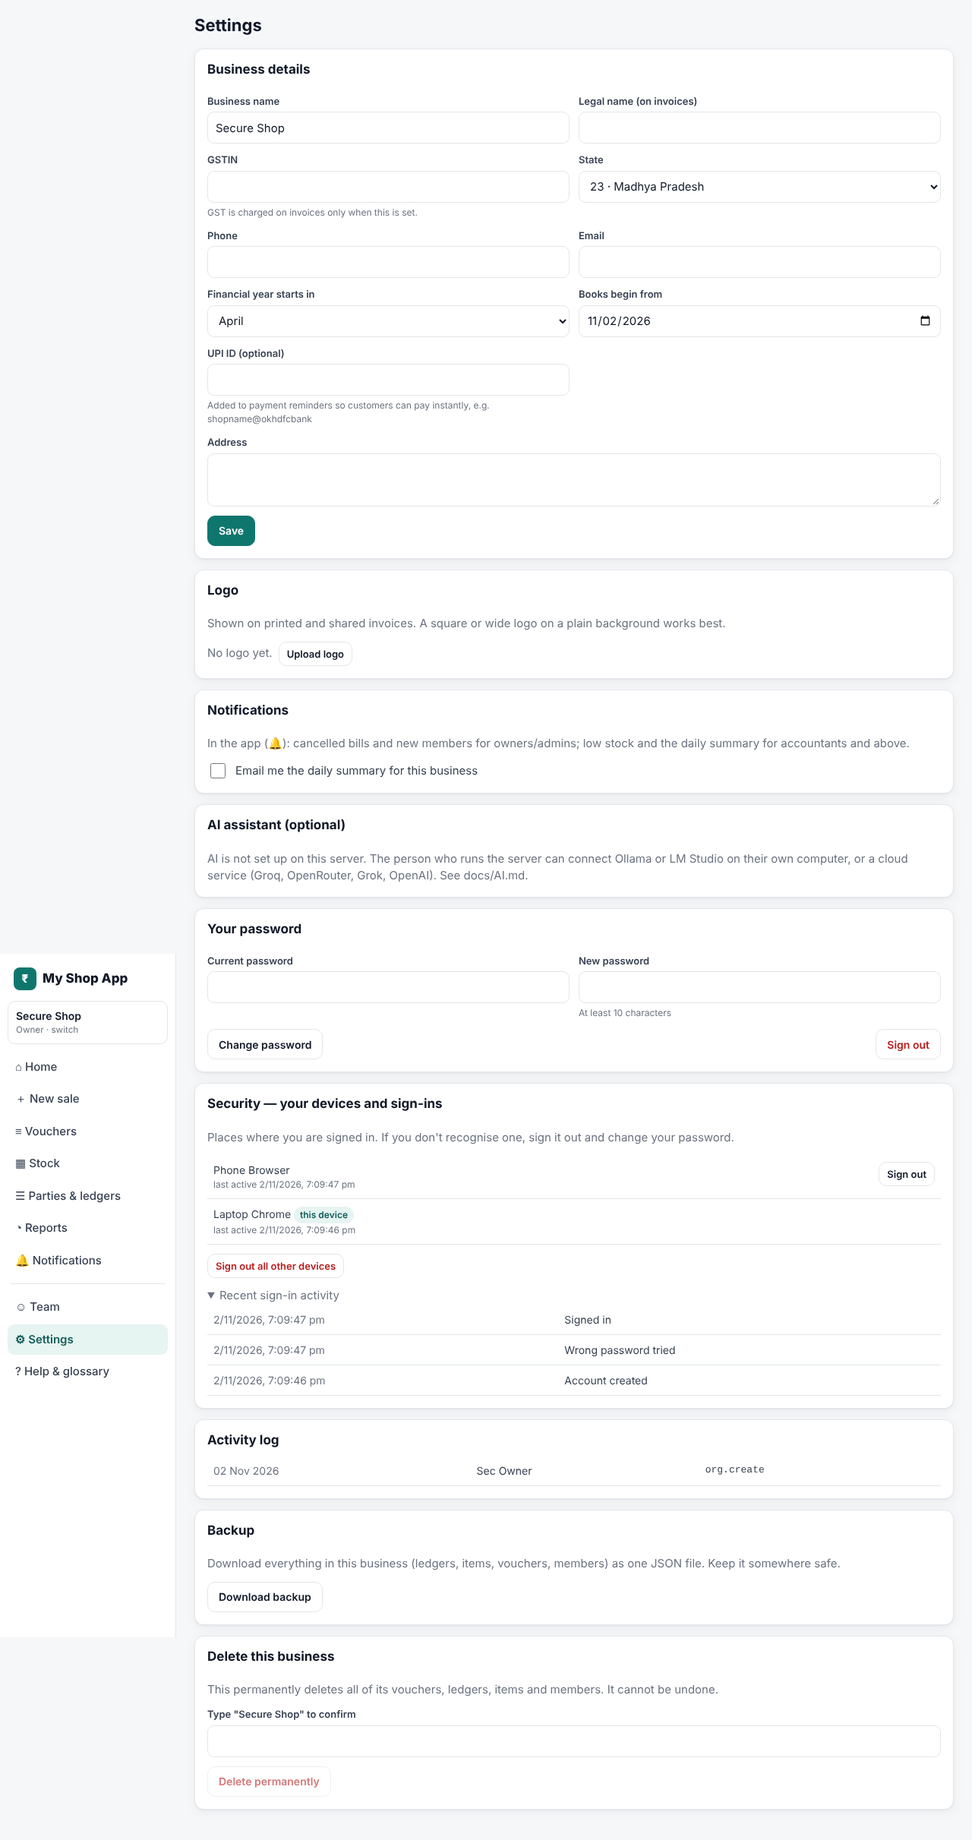
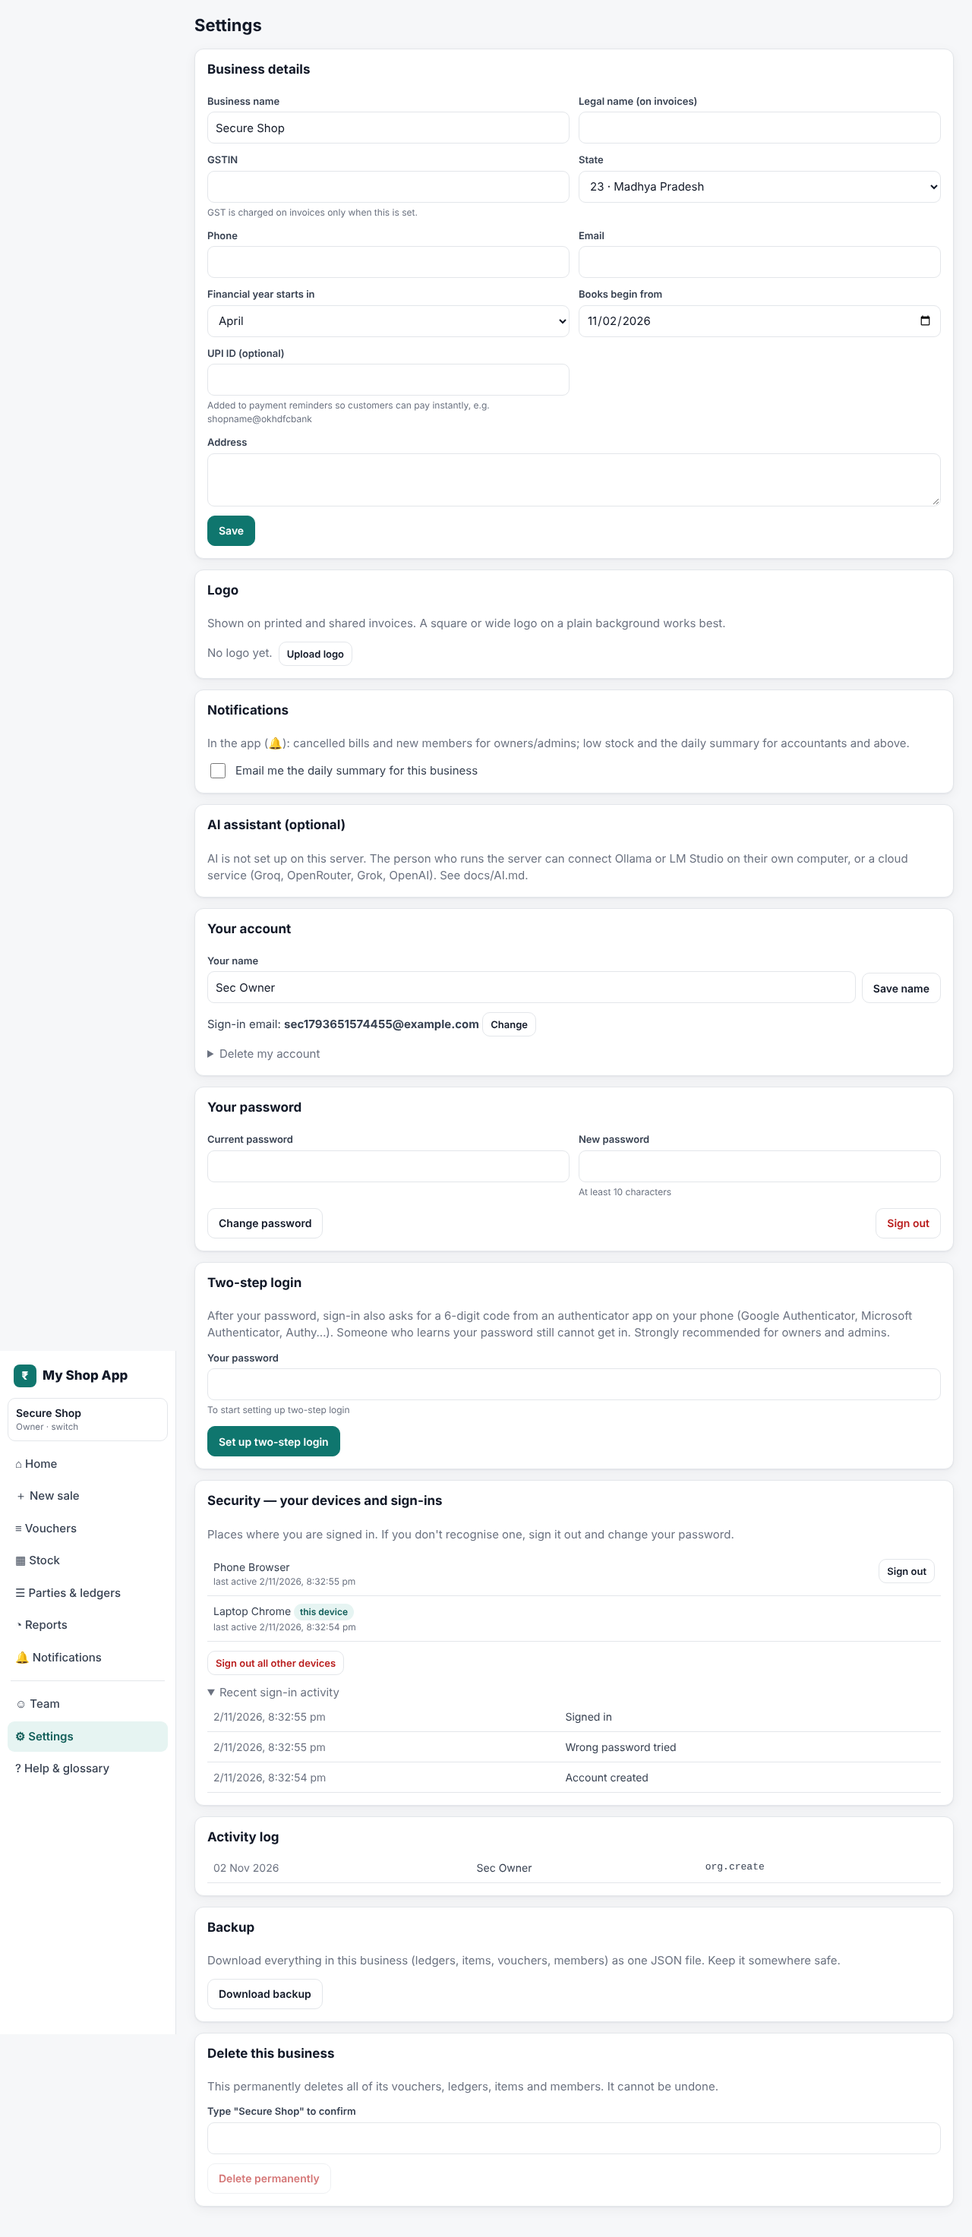
GST e-invoice JSON export (schema 1.1) per bill and per period
- lib/services/eInvoice.js builds the Invoice Registration Portal JSON for B2B
  sales (INV) and credit notes (CRN): seller/buyer details, PIN and location
  from addresses, UQC unit codes, per-line and total values that match the books
- problems listed instead of producing a file the portal would refuse (missing
  HSN, PIN, GSTIN, cancelled); B2C bills are explained, not exported
- GET /orgs/{org}/e-invoice (?voucherId or ?from&to, &download=1), accountant+
- web: 'E-invoice JSON' on a bill; GST Summary shows a bulk download and the
  bills that need fixing
- IRN and signed QR still come from the portal (needs the business's GSP login)
Tests: 106 (105 pass, 1 skipped without Kafka). Build, smoke, probes 13/13 and
51/51, ui and security walkthroughs pass.

Claude-Session: https://claude.ai/code/session_01KakstmcvHY21AvYy6WNJfV

diff --git a/lib/services/eInvoice.js b/lib/services/eInvoice.js
@@ -1,0 +1,93 @@
+// GST e-invoice JSON (government schema version 1.1, as uploaded to the Invoice Registration Portal).
+// We PREPARE the file; getting the IRN and signed QR code needs the business's own IRP/GSP login, so the
+// shop (or its accountant) uploads this JSON on the portal, or a GSP integration can send it later.
+// Only B2B documents qualify: the seller and the buyer both have a GSTIN. Sales -> INV, Credit Note -> CRN.
+import { withOrg } from '../db.js';
+import { decryptField as dec } from '../crypto.js';
+import { getVoucher } from './vouchers.js';
+import { badRequest } from '../errors.js';
+
+// Unit Quantity Codes the portal accepts for our built-in units; anything else is OTH (others).
+const UQC = { pcs: 'NOS', nos: 'NOS', kg: 'KGS', g: 'GMS', gm: 'GMS', l: 'LTR', ltr: 'LTR', ml: 'MLT', m: 'MTR', box: 'BOX', pkt: 'PAC',
+  pack: 'PAC', dozen: 'DOZ', doz: 'DOZ', bag: 'BAG', btl: 'BTL', bottle: 'BTL', set: 'SET', pair: 'PRS', roll: 'ROL', tonne: 'TON', qtl: 'QTL' };
+const r2 = (x) => Math.round(Number(x) * 100) / 100;
+const ddmmyyyy = (d) => { const s = String(d instanceof Date ? d.toISOString() : d).slice(0, 10); return `${s.slice(8, 10)}/${s.slice(5, 7)}/${s.slice(0, 4)}`; };
+const pinOf = (addr) => (String(addr || '').match(/\b([1-9][0-9]{5})\b/) || [])[1] ?? null;
+/** Short, single-line text as the schema wants (no line breaks; length limits). */
+const line = (s, max) => String(s ?? '').replace(/\s+/g, ' ').trim().slice(0, max);
+const locOf = (addr) => {
+  const parts = String(addr || '').split(/[,\n]/).map((p) => p.replace(/\b[1-9][0-9]{5}\b/, '').trim()).filter(Boolean);
+  return parts.length ? parts[parts.length - 1] : '';
+};
+
+/**
+ * Pure builder. Returns { json, problems }: problems are the reasons the portal would refuse the file
+ * (shown to the user to fix, e.g. a missing HSN code or PIN code). json is null when not a B2B document.
+ */
+export function buildEInvoice(org, party, v) {
+  const problems = [];
+  const typ = v.type === 'sales' ? 'INV' : v.type === 'credit_note' ? 'CRN' : null;
+  if (!typ) return { json: null, problems: ['Only sales bills and credit notes are e-invoices.'] };
+  if (v.status !== 'posted') problems.push('This bill is cancelled; cancelled bills are not reported.');
+  if (!org.gstin) problems.push('Your business has no GSTIN (Settings).');
+  if (!party?.gstin) return { json: null, problems: ['The customer has no GSTIN, so this is a B2C bill: no e-invoice is needed.'] };
+  const sellerPin = pinOf(org.address); const buyerPin = pinOf(party.address);
+  if (!sellerPin) problems.push('Add a 6-digit PIN code to your business address (Settings).');
+  if (!buyerPin) problems.push(`Add a 6-digit PIN code to ${party.name}'s address.`);
+  const items = v.items.map((i, k) => {
+    if (!/^[0-9]{4,8}$/.test(i.hsnCode || '')) problems.push(`Line ${k + 1} (${i.name}): add an HSN code (4–8 digits) to the item.`);
+    const tot = r2(i.qty * i.rate);
+    return {
+      SlNo: String(k + 1), PrdDesc: line(i.description || i.name, 300), IsServc: 'N', HsnCd: i.hsnCode || '',
+      Qty: Number(i.qty), Unit: UQC[String(i.unit).toLowerCase()] ?? 'OTH', UnitPrice: r2(i.rate), TotAmt: tot, Discount: r2(i.discount),
+      AssAmt: r2(i.taxableValue), GstRt: Number(i.gstRate), IgstAmt: r2(i.igst), CgstAmt: r2(i.cgst), SgstAmt: r2(i.sgst),
+      TotItemVal: r2(i.taxableValue + i.igst + i.cgst + i.sgst),
+    };
+  });
+  const sum = (k) => r2(items.reduce((a, i) => a + i[k], 0));
+  const json = {
+    Version: '1.1',
+    TranDtls: { TaxSch: 'GST', SupTyp: 'B2B', RegRev: 'N', IgstOnIntra: 'N' },
+    DocDtls: { Typ: typ, No: line(v.label, 16), Dt: ddmmyyyy(v.date) },
+    SellerDtls: { Gstin: org.gstin, LglNm: line(org.legalName || org.name, 100), TrdNm: line(org.name, 100),
+      Addr1: line(org.address || '', 100) || '-', Loc: line(locOf(org.address), 50) || '-', Pin: Number(sellerPin) || 0, Stcd: org.gstin?.slice(0, 2) ?? '' },
+    BuyerDtls: { Gstin: party.gstin, LglNm: line(party.name, 100), Pos: v.placeOfSupply || party.gstin.slice(0, 2),
+      Addr1: line(party.address || '', 100) || '-', Loc: line(locOf(party.address), 50) || '-', Pin: Number(buyerPin) || 0, Stcd: party.gstin.slice(0, 2) },
+    ItemList: items,
+    ValDtls: { AssVal: sum('AssAmt'), CgstVal: sum('CgstAmt'), SgstVal: sum('SgstAmt'), IgstVal: sum('IgstAmt'),
+      RndOffAmt: r2(v.roundOff), TotInvVal: r2(v.total) },
+  };
+  if (v.label.length > 16) problems.push('Document number is longer than 16 characters.');
+  return { json, problems };
+}
+
+async function context(c, db) {
+  const o = (await c.query('select name, legal_name, gstin, address from organizations where id = $1', [db.orgId])).rows[0];
+  return { name: o.name, legalName: o.legal_name, gstin: o.gstin, address: dec(o.address) };
+}
+async function partyOf(c, id) {
+  if (!id) return null;
+  const p = (await c.query('select name, gstin, address from ledgers where id = $1', [id])).rows[0];
+  return p ? { name: p.name, gstin: p.gstin, address: dec(p.address) } : null;
+}
+
+export async function eInvoiceForVoucher(db, voucherId) {
+  const v = await getVoucher(db, voucherId);
+  return withOrg(db, async (c) => ({ voucher: v.label, ...buildEInvoice(await context(c, db), await partyOf(c, v.partyLedgerId), v) }));
+}
+
+/** All B2B sales bills and credit notes in a period: ready files plus the ones that need fixing first. */
+export async function eInvoicesForPeriod(db, { from, to }) {
+  if (!from || !to || from > to) throw badRequest('Choose a period (from and to dates).');
+  const ids = await withOrg(db, async (c) => (await c.query(
+    `select v.id from vouchers v join ledgers l on l.id = v.party_ledger_id
+      where v.type in ('sales','credit_note') and v.status = 'posted' and l.gstin is not null and l.gstin <> ''
+        and v.date between $1 and $2 order by v.date, v.number limit 1000`, [from, to])).rows.map((r) => r.id));
+  const ready = []; const needsFix = [];
+  for (const id of ids) {
+    const r = await eInvoiceForVoucher(db, id);
+    if (r.problems.length) needsFix.push({ voucher: r.voucher, voucherId: id, problems: r.problems });
+    else ready.push(r.json);
+  }
+  return { from, to, ready, needsFix };
+}

diff --git a/test/eInvoice.test.js b/test/eInvoice.test.js
@@ -1,0 +1,54 @@
+// GST e-invoice JSON (schema 1.1): B2B only, totals match the books, problems listed instead of bad files.
+import test, { before, after } from 'node:test';
+import assert from 'node:assert/strict';
+import { setupDb, makeUserOrg, closePool } from './helpers.js';
+
+before(setupDb);
+after(closePool);
+
+test('e-invoice JSON for a B2B bill matches the voucher; B2C and missing data are explained', async () => {
+  const m = await import('../lib/services/masters.js');
+  const O = await import('../lib/services/orgs.js');
+  const { createVoucher } = await import('../lib/services/vouchers.js');
+  const E = await import('../lib/services/eInvoice.js');
+  const { db } = await makeUserOrg({ legalName: 'Bansal Traders Pvt Ltd' });
+  const groups = await m.listGroups(db); const g = (c) => groups.find((x) => x.code === c).id;
+  const units = await m.listUnits(db); const pcs = units.find((u) => u.symbol === 'pcs').id;
+  const b2b = await m.createLedger(db, { name: 'Delhi Mart', groupId: g('sundry_debtors'), openingBalance: 0, gstin: '07AAACR5055K1Z5', stateCode: '07',
+    phone: '', email: '', address: 'Shop 4, Karol Bagh, New Delhi 110005', isActive: true });
+  const rice = await m.createItem(db, { name: 'Basmati Rice 5kg', sku: '', unitId: pcs, hsnCode: '1006', gstRate: 5, salePrice: 500, purchasePrice: 400,
+    reorderLevel: 0, openingQty: 50, openingRate: 400, isActive: true });
+  const soap = await m.createItem(db, { name: 'Soap', sku: '', unitId: pcs, hsnCode: '', gstRate: 18, salePrice: 30, purchasePrice: 20,
+    reorderLevel: 0, openingQty: 50, openingRate: 20, isActive: true });
+  const base = { reference: '', narration: '', roundOff: true, entries: [], date: '2026-05-10' };
+
+  const v = await createVoucher(db, { ...base, type: 'sales', partyLedgerId: b2b.id, items: [{ stockItemId: rice.id, qty: 3, rate: '500', discount: '50' }] });
+  let r = await E.eInvoiceForVoucher(db, v.id);
+  assert.ok(r.problems.some((p) => /PIN code to your business/.test(p)), 'seller PIN missing is reported');
+  await O.updateOrg(db, { address: '12 Sarafa Bazaar, Gwalior 474001' });
+  r = await E.eInvoiceForVoucher(db, v.id);
+  assert.deepEqual(r.problems, []);
+  const j = r.json;
+  assert.equal(j.Version, '1.1');
+  assert.deepEqual(j.TranDtls, { TaxSch: 'GST', SupTyp: 'B2B', RegRev: 'N', IgstOnIntra: 'N' });
+  assert.equal(j.DocDtls.Typ, 'INV'); assert.equal(j.DocDtls.No, 'INV/26-27/1'); assert.equal(j.DocDtls.Dt, '10/05/2026');
+  assert.equal(j.SellerDtls.Gstin, '23ABCDE1234F1Z8'); assert.equal(j.SellerDtls.LglNm, 'Bansal Traders Pvt Ltd');
+  assert.equal(j.SellerDtls.Pin, 474001); assert.equal(j.SellerDtls.Loc, 'Gwalior'); assert.equal(j.SellerDtls.Stcd, '23');
+  assert.equal(j.BuyerDtls.Gstin, '07AAACR5055K1Z5'); assert.equal(j.BuyerDtls.Pin, 110005); assert.equal(j.BuyerDtls.Pos, '07');
+  const it = j.ItemList[0];
+  assert.deepEqual([it.HsnCd, it.Qty, it.Unit, it.UnitPrice, it.TotAmt, it.Discount, it.AssAmt, it.GstRt], ['1006', 3, 'NOS', 500, 1500, 50, 1450, 5]);
+  assert.equal(it.IgstAmt, 72.5, 'MP to Delhi is inter-state: IGST'); assert.equal(it.CgstAmt, 0);
+  assert.equal(j.ValDtls.AssVal, 1450); assert.equal(j.ValDtls.IgstVal, 72.5);
+  assert.equal(j.ValDtls.TotInvVal, v.total); assert.equal(j.ValDtls.RndOffAmt, v.roundOff);
+  assert.equal(r2(j.ValDtls.AssVal + j.ValDtls.IgstVal + j.ValDtls.CgstVal + j.ValDtls.SgstVal + j.ValDtls.RndOffAmt), j.ValDtls.TotInvVal);
+
+  const cash = await createVoucher(db, { ...base, type: 'sales', items: [{ stockItemId: rice.id, qty: 1, rate: '500' }] });
+  assert.equal((await E.eInvoiceForVoucher(db, cash.id)).json, null, 'B2C cash bill: no e-invoice');
+  const noHsn = await createVoucher(db, { ...base, type: 'sales', partyLedgerId: b2b.id, items: [{ stockItemId: soap.id, qty: 1, rate: '30' }] });
+  assert.ok((await E.eInvoiceForVoucher(db, noHsn.id)).problems.some((p) => /HSN/.test(p)));
+
+  const period = await E.eInvoicesForPeriod(db, { from: '2026-05-01', to: '2026-05-31' });
+  assert.equal(period.ready.length, 1); assert.equal(period.needsFix.length, 1);
+  assert.equal(period.needsFix[0].voucherId, noHsn.id);
+});
+const r2 = (x) => Math.round(x * 100) / 100;

diff --git a/app/ui/EInvoice.js b/app/ui/EInvoice.js
@@ -1,0 +1,49 @@
+'use client';
+// GST e-invoice JSON downloads (for upload on the government Invoice Registration Portal).
+import { useState } from 'react';
+import Link from 'next/link';
+import { api } from './api.js';
+import { useApi, ErrorNote } from './components.js';
+
+function saveJson(name, data) {
+  const url = URL.createObjectURL(new Blob([JSON.stringify(data, null, 2)], { type: 'application/json' }));
+  const a = document.createElement('a'); a.href = url; a.download = name; a.click(); setTimeout(() => URL.revokeObjectURL(url), 1000);
+}
+
+/** Button on a bill: downloads the JSON, or explains what to fix first. */
+export function EInvoiceButton({ orgId, voucherId, label }) {
+  const [problems, setProblems] = useState(null);
+  const [error, setError] = useState(null);
+  async function go() {
+    setError(null); setProblems(null);
+    try {
+      const r = await api(`/orgs/${orgId}/e-invoice`, { query: { voucherId } });
+      if (!r.json || r.problems.length) setProblems(r.problems);
+      else saveJson(`e-invoice-${label.replace(/[^\w-]+/g, '-')}.json`, [r.json]);
+    } catch (e) { setError(e); }
+  }
+  return (<>
+    <button className="btn btn-sm" onClick={go} title="JSON for the government e-invoice portal">E-invoice JSON</button>
+    {(problems || error) && <div className="note note-warn no-print" style={{ flexBasis: '100%' }}><ErrorNote error={error} />
+      {problems && <><b>Fix these first:</b><ul style={{ margin: '4px 0 0 18px' }}>{problems.map((p) => <li key={p}>{p}</li>)}</ul></>}</div>}
+  </>);
+}
+
+/** Under the GST Summary: all B2B bills of the period as one upload file, and the ones that need fixing. */
+export function EInvoicePeriod({ orgId, base, from, to }) {
+  const r = useApi(() => api(`/orgs/${orgId}/e-invoice`, { query: { from, to } }), [orgId, from, to]);
+  if (r.error) return <ErrorNote error={r.error} />;
+  if (!r.data) return null;
+  const { ready, needsFix } = r.data;
+  return (
+    <div className="card grid no-print">
+      <h2>GST e-invoices (B2B bills)</h2>
+      <p className="muted">E-invoicing is required only above the government's turnover limit. This prepares the JSON (schema 1.1) for bulk
+        upload on the Invoice Registration Portal; the IRN and QR code come from the portal. Bills to customers without a GSTIN are not included.</p>
+      <div className="row"><button className="btn btn-primary" disabled={!ready.length} onClick={() => saveJson(`e-invoices-${from}-to-${to}.json`, ready)}>
+        Download {ready.length} e-invoice{ready.length === 1 ? '' : 's'}</button></div>
+      {needsFix.length > 0 && <div className="note note-warn"><b>{needsFix.length} bill{needsFix.length === 1 ? '' : 's'} need fixing first:</b>
+        <ul style={{ margin: '4px 0 0 18px' }}>{needsFix.map((n) => <li key={n.voucherId}><Link href={`${base}/vouchers/${n.voucherId}`}>{n.voucher}</Link>: {n.problems.join(' ')}</li>)}</ul></div>}
+    </div>
+  );
+}

diff --git a/app/api/v1/orgs/[orgId]/e-invoice/route.js b/app/api/v1/orgs/[orgId]/e-invoice/route.js
@@ -1,0 +1,23 @@
+// GST e-invoice JSON for the Invoice Registration Portal (schema 1.1).
+//   ?voucherId=<id>            -> { voucher, json, problems }   (one bill)
+//   ?from=YYYY-MM-DD&to=...    -> { ready: [json...], needsFix: [{voucher, problems}] } (bulk upload file)
+//   &download=1                -> the JSON array as a file (only ready documents)
+import { route, json } from '../../../../../../lib/http.js';
+import { uuid, isoDate } from '../../../../../../lib/validation.js';
+import { eInvoiceForVoucher, eInvoicesForPeriod } from '../../../../../../lib/services/eInvoice.js';
+import { securityEvent } from '../../../../../../lib/services/securityLog.js';
+
+export const GET = route(async ({ request, db, user }) => {
+  const q = new URL(request.url).searchParams;
+  if (q.get('voucherId')) {
+    const r = await eInvoiceForVoucher(db, uuid.parse(q.get('voucherId')));
+    if (q.get('download') === '1' && r.json && !r.problems.length) {
+      return json([r.json], 200, { 'content-disposition': `attachment; filename="e-invoice-${r.voucher.replace(/[^\w-]+/g, '-')}.json"` });
+    }
+    return r;
+  }
+  const r = await eInvoicesForPeriod(db, { from: isoDate.parse(q.get('from')), to: isoDate.parse(q.get('to')) });
+  await securityEvent('export.e_invoice', { userId: user.id, orgId: db.orgId, detail: `${r.from}..${r.to} ready=${r.ready.length}` });
+  if (q.get('download') === '1') return json(r.ready, 200, { 'content-disposition': `attachment; filename="e-invoices-${r.from}-to-${r.to}.json"` });
+  return r;
+}, { action: 'voucher.create.purchase' });   // accountants and above (contains customers' addresses)

diff --git a/app/o/[orgId]/vouchers/[voucherId]/page.js b/app/o/[orgId]/vouchers/[voucherId]/page.js
@@ -4,6 +4,7 @@ import Link from 'next/link';
 import { api } from '../../../../ui/api.js';
 import { useApi, Loading, ErrorNote, Field } from '../../../../ui/components.js';
 import { useOrg } from '../../../../ui/OrgContext.js';
+import { EInvoiceButton } from '../../../../ui/EInvoice.js';
 import { money, amount, date, qty, VOUCHER_TYPES } from '../../../../ui/format.js';
 import { STATES } from '../../../../ui/states.js';
 import { invoiceMessage, whatsappUrl } from '../../../../../shared/messages.js';
@@ -35,6 +36,7 @@ export default function VoucherView({ params }) {
         <button className="btn btn-sm" onClick={() => window.print()}>Print / PDF</button>
         {d.items.length > 0 && d.status === 'posted' && <a className="btn btn-sm" target="_blank" rel="noopener noreferrer"
           href={whatsappUrl('', invoiceMessage({ shopName: org.legalName || org.name, label: d.label, date: date(d.date), total: d.total, items: d.items }))}>WhatsApp</a>}
+        {d.status === 'posted' && org.gstin && (d.type === 'sales' || d.type === 'credit_note') && d.partyLedgerId && can('voucher.create.purchase') && <EInvoiceButton orgId={org.id} voucherId={d.id} label={d.label} />}
         {d.status === 'posted' && can('voucher.cancel') && can(`voucher.create.${d.type}`) && <Link className="btn btn-sm" href={`${base}/vouchers/new?type=${d.type}&from=${d.id}`}>Correct…</Link>}
         {d.status === 'posted' && can('voucher.cancel') && <button className="btn btn-sm btn-danger" onClick={() => setCancelling(true)}>Cancel voucher</button>}
       </div>

diff --git a/app/o/[orgId]/reports/page.js b/app/o/[orgId]/reports/page.js
@@ -4,6 +4,7 @@ import Link from 'next/link';
 import { api } from '../../../ui/api.js';
 import { useApi, Loading, ErrorNote, PageHead } from '../../../ui/components.js';
 import { useOrg } from '../../../ui/OrgContext.js';
+import { EInvoicePeriod } from '../../../ui/EInvoice.js';
 import { money, amount, qty, date, today, monthStart, VOUCHER_TYPES } from '../../../ui/format.js';
 import { downloadCsv, reportRows } from '../../../ui/download.js';
 
@@ -85,7 +86,7 @@ function Body({ id, d, base, remind = true }) {
 }
 
 export default function Reports() {
-  const { org, base, on } = useOrg();
+  const { org, base, on, can } = useOrg();
   const [id, setId] = useState('profit-loss');
   const [from, setFrom] = useState(monthStart());
   const [to, setTo] = useState(today());
@@ -108,6 +109,7 @@ export default function Reports() {
         <ErrorNote error={data.error} />
         {!current ? (!data.error && <Loading />) : <div className="table-wrap"><Body id={id} d={current} base={base} remind={on('reminders')} /></div>}
       </div>
+      {id === 'gst-summary' && org.gstin && can('voucher.create.purchase') && <EInvoicePeriod orgId={org.id} base={base} from={from} to={to} />}
     </>
   );
 }

diff --git a/lib/validation.js b/lib/validation.js
@@ -22,7 +22,7 @@ export const uuid = z.uuid();
 const decimal = z.union([z.number().finite(), z.string().trim().regex(/^-?\d{1,12}(\.\d{1,3})?$/)]);
 const nonNeg = (label) => decimal.refine((v) => Number(v) >= 0, `${label} cannot be negative`);
 // Strict calendar check: JavaScript's Date.parse accepts 2026-02-30 (rolling over to March), so round-trip it.
-const isoDate = z.string().regex(/^\d{4}-\d{2}-\d{2}$/, 'Use YYYY-MM-DD').refine((s) => {
+export const isoDate = z.string().regex(/^\d{4}-\d{2}-\d{2}$/, 'Use YYYY-MM-DD').refine((s) => {
   const d = new Date(`${s}T00:00:00Z`);
   return !Number.isNaN(d.getTime()) && d.toISOString().slice(0, 10) === s && s >= '1900-01-01' && s <= '2199-12-31';
 }, 'This date does not exist');

diff --git a/docs/API.md b/docs/API.md
@@ -38,6 +38,7 @@ Dates are `YYYY-MM-DD`.
 | DELETE | `/me` | signed in | `{password, code?, confirm:"DELETE"}` delete your account (refused with `sole_owner` while you are the only owner of a business; personal details wiped, bills keep "Deleted user") |
 | POST | `/me/email` | signed in | `{newEmail, password, code?}` emails a confirmation link to the new address and a notice to the old one |
 | POST | `/auth/email-change/confirm` | public | `{token}` from the link: switches the email, signs out every device, tells the old address |
+| GET | `/orgs/{org}/e-invoice` | accountant+ | `?voucherId=` → `{voucher, json, problems}`; `?from=&to=` → `{ready:[…], needsFix:[…]}`; `&download=1` gives the file. GST e-invoice JSON schema 1.1 (B2B sales and credit notes) for upload on the Invoice Registration Portal |
 | GET/POST | `/me/two-factor` | signed in | Two-step login: status; `{action:'setup',password}` → `{secret, uri}`; `{action:'enable',code}` → `{recoveryCodes}`; `{action:'recovery-codes',password,code}`; `{action:'disable',password,code}` |
 | POST | `/invitations/accept` | signed in | `{token, preview: true}` shows the invitation; `{token}` joins (needs a confirmed email unless verification is off). The token is never put in a URL. |
 | GET/POST | `/orgs` | signed in | list / create (you become owner; chart of accounts is seeded) |

diff --git a/docs/HANDOFF.md b/docs/HANDOFF.md
@@ -58,8 +58,9 @@ To keep going with Claude Code locally: *"Read docs/HANDOFF.md and continue with
 2. Configure real email (docs/EMAIL.md) and test AI with your Ollama (docs/AI.md).
 4. Mobile: edit stock items, date picker, offline queue for sales, CSV share.
 5. Tally XML export; importing data from Tally/Excel (CSV and JSON backup exports are done).
-6. GST e-invoice (IRN/QR) and e-way bill.
-7. TOTP two-factor for owners/admins; list of signed-in devices.
+6. Done: e-invoice JSON (schema 1.1) per bill and per period. Next: live IRP/GSP connection for IRN + signed QR
+   (needs the business's GSP credentials), e-way bill.
+7. Done: two-step login + recovery codes, account settings (name, email change, delete), devices on the phone.
 8. Optional cloud OCR for low-confidence scans (needs owner consent + data agreement).
 
 ## Gotchas
